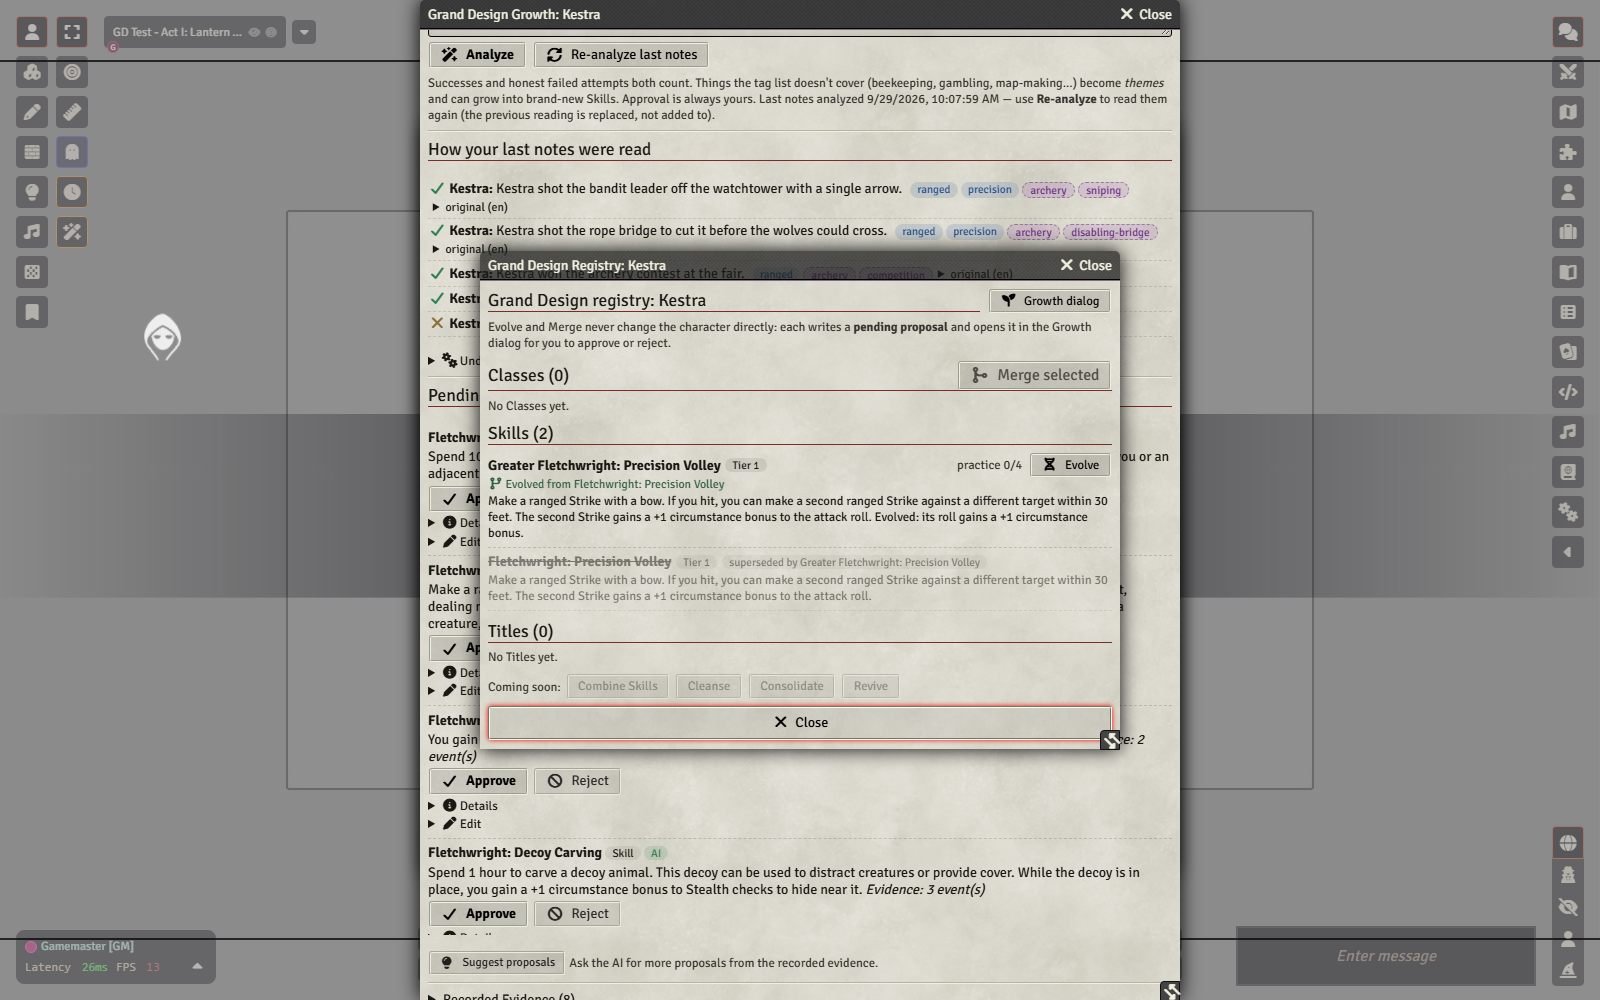
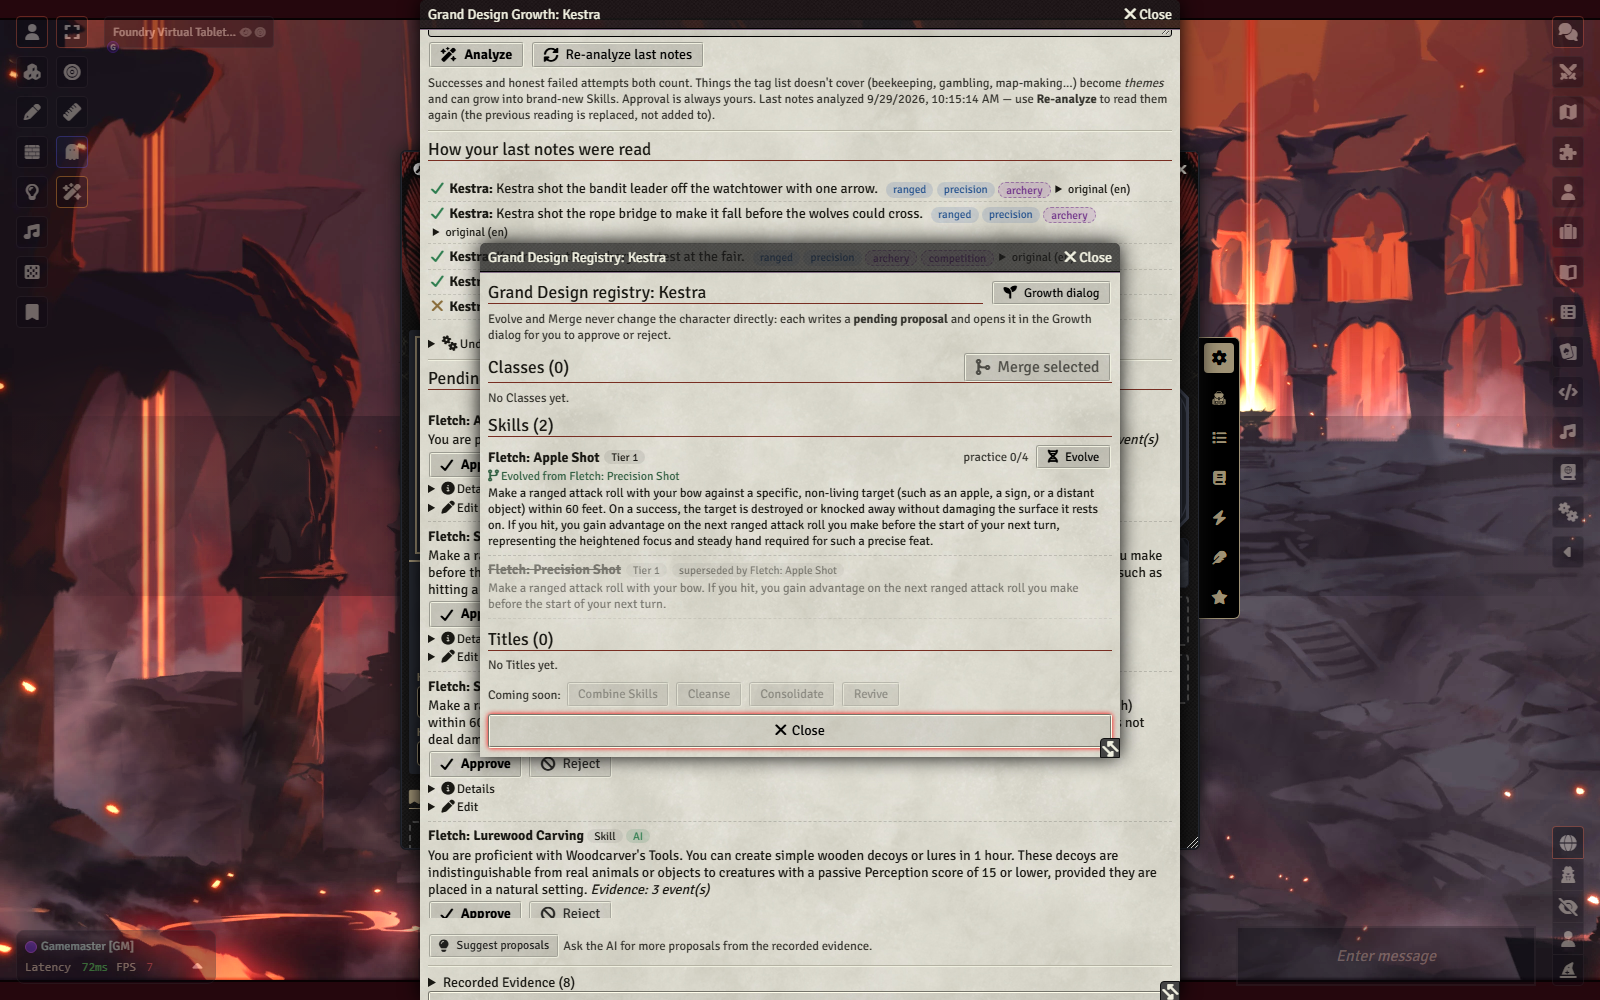
Close advanced-mechanics batch (live 19/19 both worlds); status, change log, board
Claude-Session: https://claude.ai/code/session_01UbrjpFqF59DpmacauxQ9tR

diff --git a/docs/ai-gateway-v2-contract.md b/docs/ai-gateway-v2-contract.md
@@ -169,3 +169,4 @@ config. The adapter function signature stays `async ({ actor, notes, systemId? }
 - 2026-09-28 (ember-road s2/s3). (1) `api.requestGrowthProposals` passes `events` and the adapter/pipeline accept `presetEvents` (stage 1 skipped): stage 1 had read the "GM REQUEST" wrapper as out-of-character and returned 0 events (Maren 0 -> 3 proposals). (2) `mergeFollowUpEvents`: a quote/summary containing "then" is a new occasion and never folds (s2 lost Maren's Thorn Lash that way); few-shots for comma-listed spells with a result only on the last, and implied-verb downtime ("bread w/ Oren was amazing": baking present 8/13 -> 9/9 reps). 112-item slice (novel, long-multiscene, bullets, traps), 1 rep: score 96.4%, precision 97.1%, count 90.2%, traps 100%, fallback 0%. (3) New `api.rejectProposal` (status "rejected", reason, hook); rejected names are skipped by the gateway merge, Suggest proposals and templates. s3 on main: every approved Skill used in play credited to its owner.
 - 2026-09-28 (salt-lantern, first PF2e playtest; dev-proposals + C5 review). Stage 2 now sees owned entries' effects and the actor's class features/proficiencies (`actor.ownedFeatures`); deterministic gates skip duplicates of owned Skills by mechanic (`duplicates-owned`), of base-class features (`duplicates-class-feature`, e.g. Rogue + Sleight of Hand: caught 3/4 live runs) and wrong-system terms; wrong terms with an exact PF2e equivalent are REWRITTEN (Craft->Crafting, staggered->slowed 1, "X for 1 round"->until the end of your next turn), and a bare class-name motif is re-coined from the theme instead of skipped (skipping had emptied Buck's whole Suggest: 0 -> 3). Pending AI proposals are capped per actor (`pendingProposalCapMin` 5 / `pendingProposalCapExtra` 2). C5 fixes: `eventDedupeKey` includes the actor (two PCs' identical "Picked a lock." no longer collapse), `differentActors` matches whole name tokens minus titles. 88-item slice (bullets, texting, traps, long-multiscene), 1 rep: score 98.7%, count 97.7%, precision 97.5%, traps 100%, fallback 0%.
 - 2026-09-29 AI-authoring batch (board b375d56c, 0ed137cb, 17c10e97, 9ebbf3c9, 78ead05c, 574707d8, 7f1f20ae, 3574bd96, 96b5beea, 4f3192e0, a0bcfd05, 283ad7ca, 5b2ff22d). **Gateway request/response:** `request.actor.pendingProposals` and `request.actor.rejectedProposals` (compact name/kind/tags/effect/id) reach stage 2, whose prompt forbids re-proposing them; deterministic near-duplicate gate (effect-text Jaccard >= 0.5 with agreeing tags, or shared concept word + tag overlap >= 0.5, or same game item + text >= 0.35) adds skip reasons `duplicates-pending`, `duplicates-rejected` (with `duplicateOf`/`duplicateOfId`) and `duplicates-sibling` (best-evidenced kept); milestone and Author calls are only checked within their own batch. `duplicates-owned-proficiency` fires only when the effect GRANTS the proficiency (a capstone that rolls Athletics is kept). Event schema requires `actorRole: "doer"|"target"` right after `actorName`; target events go to `skippedEvents` as `happened-to-actor` (no repair turn). Stage-2-only calls (Suggest, milestone, Author) re-throw provider errors instead of returning empty. Proposal repair-turn schema no longer requires `redCheck`. **api:** `retryMilestoneReward(actor, id) -> {proposal, usedFallback, reason}`, `updateProposal(actor, id, {entry}|fields) -> {ok, errors, proposal}` (validator.js, `editedBy: "gm"`), `isBusy(actor)`, `getBusyTask(actor)`, `getMilestoneRewards(actor)`; hooks `busyChanged`, `milestoneRewardRetried`, `proposalUpdated`; per-actor lock (Error "busy:..."), overall AI deadline `analysisDeadlineMs` (default 4 x timeoutMs; it does not abort the call yet). Fallback DCs from the character level (PF2e level DC table, 5e 8+prof+mod), rolls resolved to the system check (`@Check[athletics|dc:30]`, `[[/check skill=ath ability=str dc=16]]`, `[[/save ability=dex dc=14]]`) with the sheet modifier; the flat `[[/r]]` stays in parentheses until test-scenario.js is updated. Evolved/merged/combined entries carry unique `metadata.id` and hash-picked names; emergent themes fold near-duplicate slugs on load and count per actor. Settings: tuning keys `maxRetries`, `transientRetries`, `transientBackoffMs`, `extractionCacheEntries`, `extractionCacheTtlMs`; world keys `pendingProposalCapExtra`, `pendingProposalCapMin`, `outputLanguage` (migrated from client). Harness: the nlp-scale request blanks the analysed-PC name (redAcc had been null since 09-27). Numbers (qwen3.8:27b, 1 rep): traps+novel 82 items score 94.7 -> 96.8%, traps 93.5 -> 100%, precision 93.1 -> 97.7%, count 89.0 -> 90.2%; red 10 items redAcc 0.90 -> 0.90 (2 reps), count 0.70 -> 0.75. Corpus 327 items (tr-034..tr-038). Reruns: ember-road s1 and salt-lantern s1-s2 as `playtests/v0929-dnd5e`, `v0929-pf2e`; two Suggest clicks repeat nothing (Maren click 2: one new idea only). 1040 tests.
+- 2026-09-29 (later) advanced mechanics (board ebcc3f03, 7b616fea, d4ae9326, 752369f6, 0860fd78, 43ff2ae9, c4ec8cf7, 07b9d93f). **Gateway:** `adapter.authorAdvanced({actor, operation: "upgrade"|"combine", sources, events, systemId, name?})` (stage 2 only, async, throws on provider failure) with `buildAdvancedTarget` filling sources from the registry; `pipeline.js#applyAdvancedTarget` owns the numbers (tier = source + 1 max 3, merge power tier from class-merging.js focus with the off-cycle cap, level >= highest source, red carried) and writes `metadata.lineage = {operation, sources, rationale}`; sources are exempt from the owned/class-feature/proficiency gates. Stage 2 may return at most one `titles` item (`TITLE_ITEM_SCHEMA`) -> `{kind: "title", entry: {name, description, achievement, tags, metadata: {polarity, vice?}}}`, only in open-ended stage 2, gated (duplicate title, personal name, deed not the PC's, red disallowed). A GM-requested stage 2 (always / allowance / milestone / author) that comes back empty gets one `propose-retry` turn naming what to avoid. Owned-entry near-dup gates compare like kinds only and ignore the shared motif before ":" (a milestone Class had been skipped as a duplicate of the PC's "Fletchwright: ..." Skills). `isConsequenceOfOwnDeed`: banned/evicted/arrested/thrown out stays the PC's failure. **API:** `getOwnedEntries`, `evolutionReady` on analysis/rest results + hook, `requestSkillEvolution`, `requestClassMerge` (AI first, rules fallback with reason), milestone merge option with 2+ active Classes, approval supersedes sources (registry status + Item renamed/flagged; mechanics NOT yet disabled), titles through approve/reject -> grantTitle (red accrues Horror Rank), Suggest returns `skipped` + `capReached`. **UI:** `registry-ui.js` panel (sheet header + Growth dialog), erosion callouts, Title chip, Suggest reasons. **Numbers:** traps+red 50 items 1 rep score 97.0%, traps 100%, count 94.0%, red 90% (2 reps); corpus 329 items. **Live:** `tools/playtest/live-verify.mjs` 19/19 in BOTH worlds on build 3e75e8e (first PF2e live pass since 09-24); `switch-world.mjs` switches worlds headlessly. 1126 tests.

diff --git a/CLAUDE.md b/CLAUDE.md
@@ -12,7 +12,7 @@ source: `foundry-module/`. Live install: `%LOCALAPPDATA%\FoundryVTT\Data\modules
 
 ## Commands (run from `foundry-module/`)
 ```powershell
-npm test                                    # 1040 unit tests, ~30 s, no network
+npm test                                    # 1126 unit tests, ~30 s, no network
 node tools/nlp-scale/job-runner.mjs         # job queue for real-model scale runs (see below)
 node tools/nlp-scale/run.mjs --model qwen3:30b-a3b --reps 3            # full corpus vs local Ollama
 node tools/nlp-scale/run.mjs --model qwen3:30b-a3b --filter traps,non-english --reps 5
@@ -101,10 +101,17 @@ and rejected ones, `actorRole` drops things done TO a PC, unreachable gateway se
 real model on reruns `playtests/v0929-dnd5e` (ember-road s1) and `v0929-pf2e` (salt-lantern s1-s2); traps+novel
 slice 96.8%, traps 100%. NOT yet clicked through in Foundry (dnd5e world occupied all session). 1040 tests.
 
+2026-09-29 (evening): advanced mechanics batch (4 agents): Skill evolution and Class merging are reachable and
+AI-written (`adapter.authorAdvanced`, `api.requestSkillEvolution`/`requestClassMerge`, approval supersedes the
+sources), title proposals ("Trollbane"), a Registry panel (sheet header), erosion callouts, Suggest explains
+skips/cap, playtest.mjs owned/evolve/merge/titles/erosion. Two live regressions from the morning batch fixed
+(empty Suggest with pending proposals; milestone Class gated as a duplicate of same-motif Skills).
+**LIVE 19/19 in BOTH worlds** (build 3e75e8e); worlds switch with `node tools/playtest/switch-world.mjs <worldId>`
+(owner authorised switching; "endex" = PF2e, "endexdnd-5e" = dnd5e). 1126 tests.
+
 Open, in order (see the board, epic 278670bb):
-1. Live verify in BOTH worlds when free: PF2e (25576f78) + the new Growth dialog (Details/Edit/Retry/busy); deploy first.
-2. Advanced mechanics feature (evolution, merge, titles, Horror Rank, combos) + registry UI.
-3. Real game items (structured damage/saves/modifiers), party analyze, Populate AI, undo/reassign events.
-4. Follow-ups from 09-29: Suggest explains "0 new" (43ff2ae9), consequence-of-own-deed skipped (07b9d93f),
-   bland tag motifs (e8ae42d0), theme registry clean-up (89437d16), roll follow-ups (5a65746f).
-5. Earlier items: softened dark deeds, over-splits, tier-1 balance, rd-008.
+1. Horror Rank model (21e944ed) - needs the owner's decision (refusable red proposals vs rejection accrues).
+2. Superseded Items still mechanically live (systems adapters); real game items with structured damage/saves (5a0cea2e).
+3. Playtest the new mechanics: a 3rd session of salt-lantern/ember-road with evolve/merge/titles via playtest.mjs.
+4. Party analyze (7f1f20ae), undo/reassign events (4344c58a), Populate AI (dee25a95), combos/revival/cleanse.
+5. Earlier items: softened dark deeds, over-splits, tier-1 balance, rd-008, bland tag motifs (e8ae42d0).
